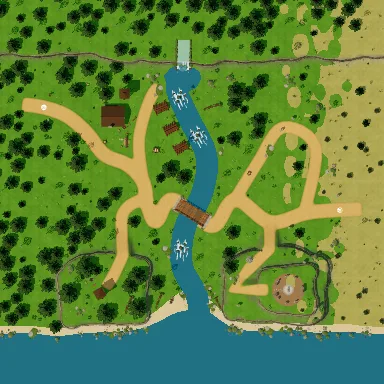
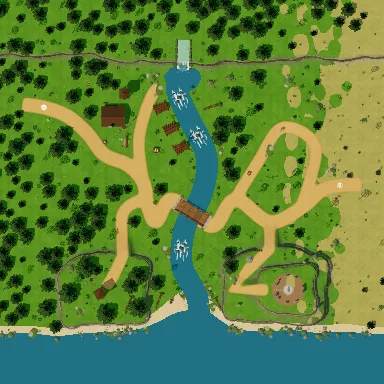
Pine forest by the river: the way to the steppe where the steppe's own way out is
The east way out moves up to n 0.52, opposite the west steppe's way back (0.523), the track
over the dry hill's foot with it, its signpost and standing stone, and where you arrive from
the steppe. New world map picture.

Claude-Session: https://claude.ai/code/session_01EoAgD4nUuveX489aYfu2wP

diff --git a/src/world3d/field_pine_river.ts b/src/world3d/field_pine_river.ts
@@ -189,15 +189,16 @@ const CIRCLE: XY = [-3650, -3350];
 // the tracks: from the way in high on the west side down past the lumber camp, over the bridge and
 // out east; up to the lookout, on to the camp and the falls, a loop over the dry hill in the east,
 // up to the stones
-const T1: XY[] = smooth([[2800, 5900], [2690, 5150], [2400, 4350], [1800, 3650], [1050, 3050], [700, 2250], [100, 1700], [-700, 1550], [-1300, 1250], off(900), C.at, off(-900), [-500, -1500], RE1.bottom, [-1000, -3900], [-900, -4700], [-850, -5900]]);
+const T1: XY[] = smooth([[2800, 5900], [2690, 5150], [2400, 4350], [1800, 3650], [1050, 3050], [700, 2250], [100, 1700], [-700, 1550], [-1300, 1250], off(900), C.at, off(-900), [-500, -1500], RE1.bottom, [-800, -3800], [-200, -4500], [-20, -5150], [0, -5900]]);
 const T_RIDGE: XY[] = [...smooth([[-450, 1580], [-700, 2150], [-1050, 2430], RW1.bottom], 4), RW1.top, [-3100, 2700], [-3600, 3000]];
 const T_CAMP: XY[] = smooth([[100, 1700], [1300, 1850], [2100, 1750], [3000, 1450], [3450, 1150]]);
-const T_EAST: XY[] = smooth([[-500, -1500], [800, -2300], [2000, -3150], [1300, -4300], [-1000, -3900]]);
+const T_EAST: XY[] = smooth([[-500, -1500], [800, -2300], [2000, -3150], [1300, -4300], [-800, -3800]]);
 const T_STONES: XY[] = [RE1.bottom, RE1.top, [-2900, -2000], RE2.bottom, RE2.top, [-3650, -2650]];
 
 // the way to the royal road where the road's own way out meets this edge (n 0.78)
 const WAY_W: XY = [2690, 5150], ARRIVE_W: XY = [2470, 4500];
-const WAY_E: XY = [-881, -5150], ARRIVE_E: XY = [-931, -4450];
+// the way to the steppe where the steppe's own way out meets this edge (n 0.52)
+const WAY_E: XY = [-20, -5150], ARRIVE_E: XY = [-190, -4470];
 const CAMP: XY = [2000, 1750];
 const LOOKOUT: XY = [-3800, 3200];
 
@@ -351,8 +352,8 @@ export function build(quality: { flowers: number }): Town {
   P("plains:signpost", [3100, 4950], 180, 80);
   P("plains:milestone", [2250, 5000], 0, 60);
   f.exit("west_steppe", WAY_E, ARRIVE_E);
-  P("plains:signpost", [-1350, -5000], 0, 80);
-  P("trunrada:standing_stone", [-400, -5050], 20, 90);
+  P("plains:signpost", [-480, -5000], 0, 80);
+  P("trunrada:standing_stone", [380, -5250], 20, 90);
 
   // ---- the lumberjacks' camp on the west bank below the falls ----
   P("plains:hunter_lodge", [2400, 2750], 90, 560);
